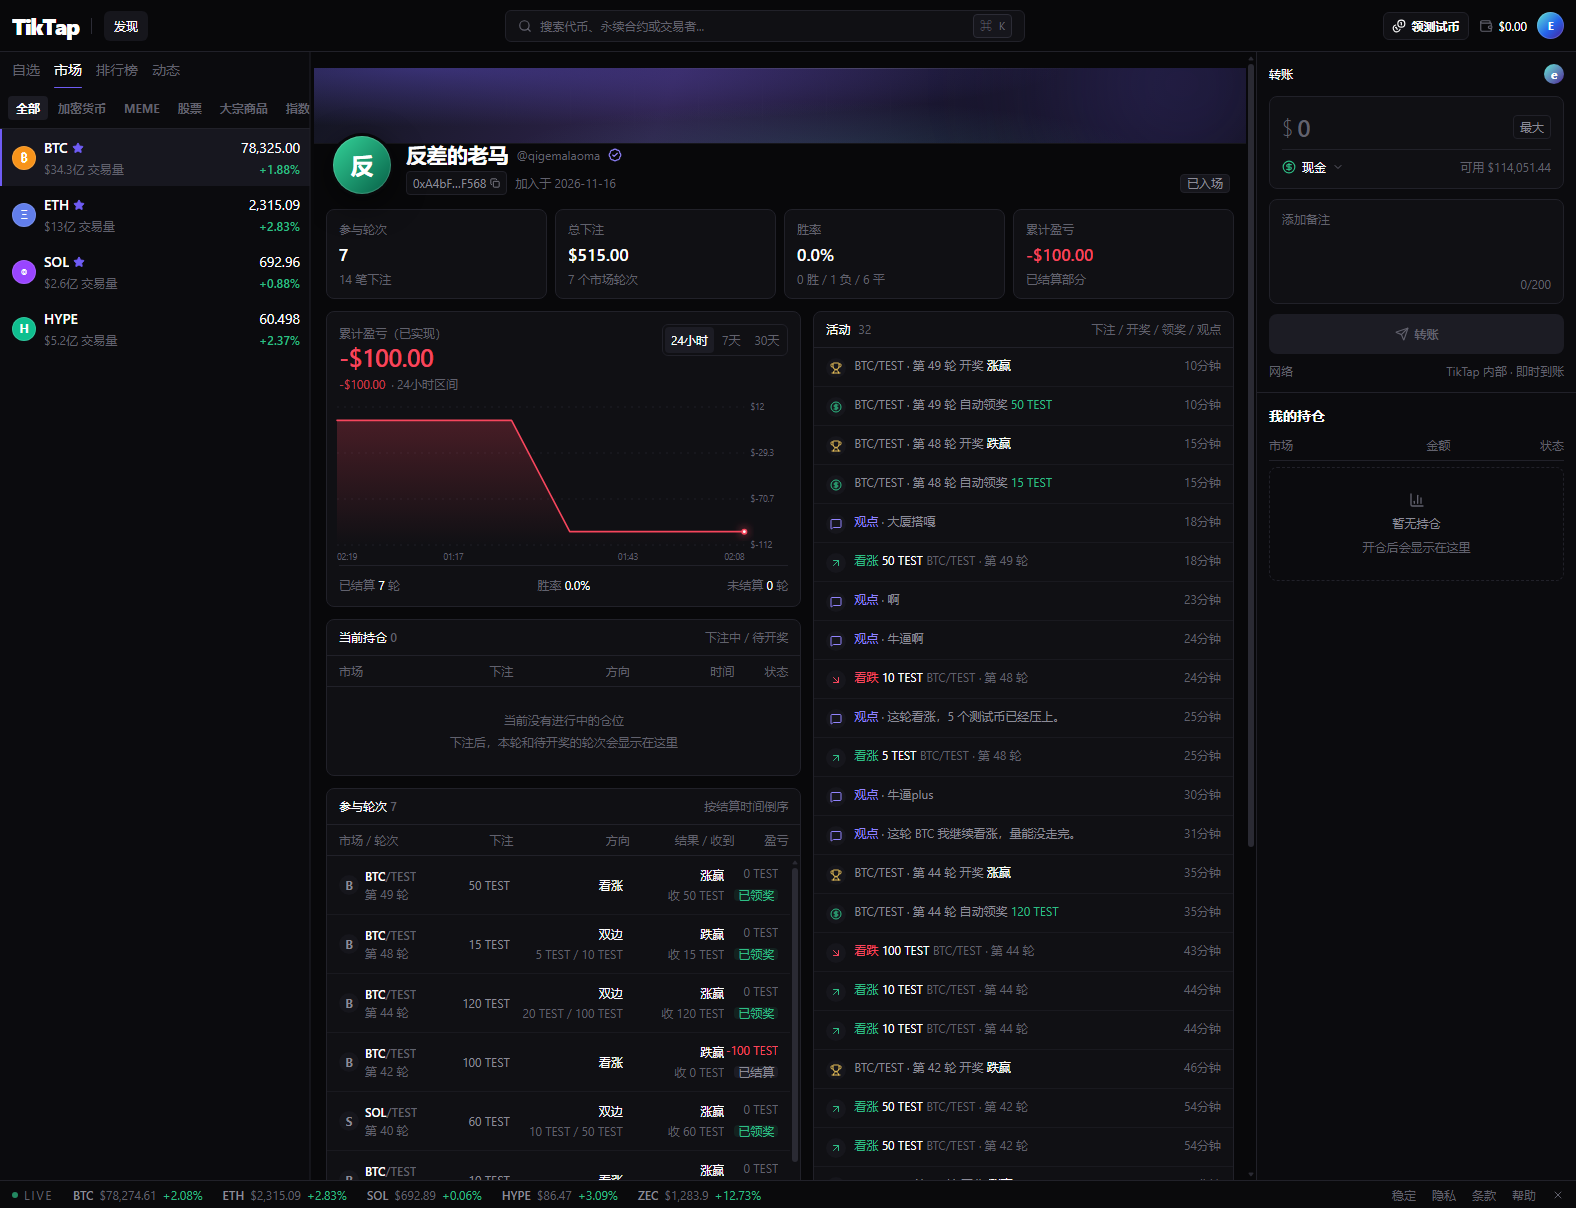
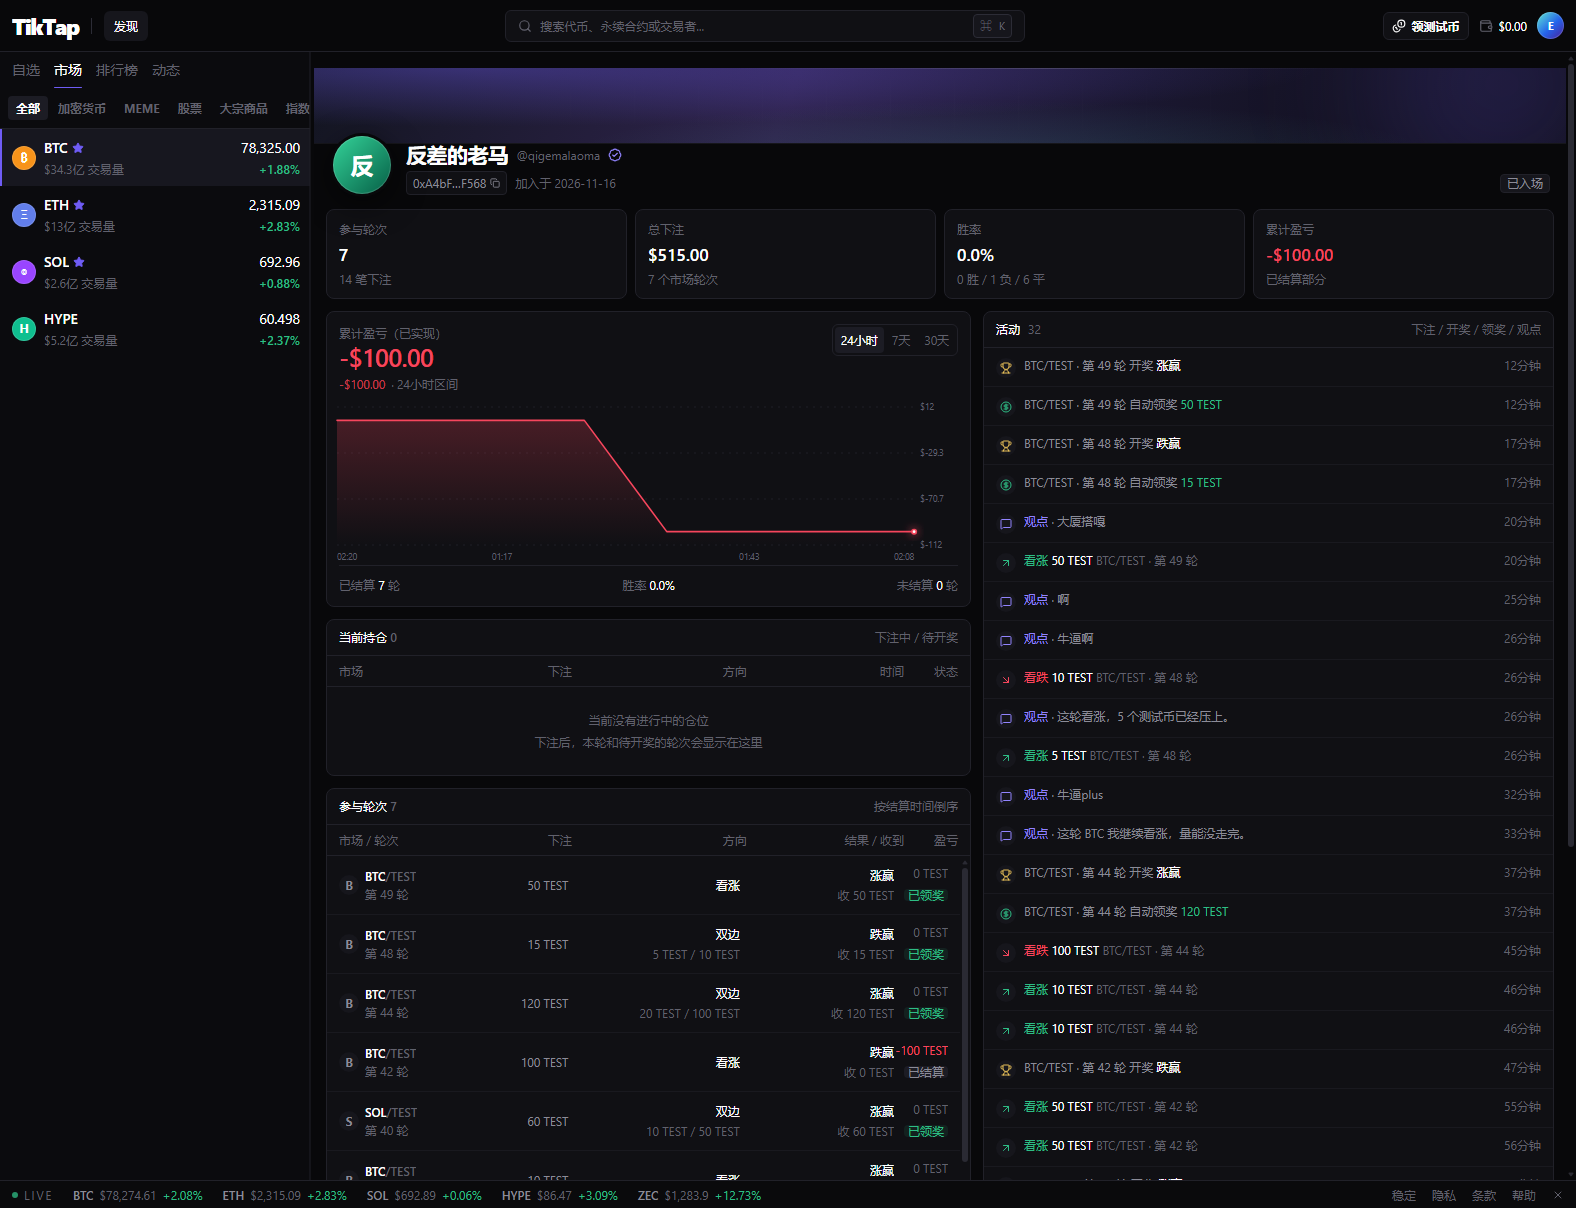
feat(web): 个人主页去掉右侧转账/持仓栏，内容区占满
- 个人主页不再渲染 TransferPanel；发现页仍保留 TradePanel
- 删除已无引用的 TransferPanel 组件
- 实测 1576px 视口下主内容区从 ~960px 扩到 1262px，页面无「转账 / TikTap 内部」文案

diff --git a/apps/web/src/layouts/AppLayout.tsx b/apps/web/src/layouts/AppLayout.tsx
@@ -5,7 +5,6 @@ import { TickerBar } from "@/components/TickerBar";
 import { TokenSidebar } from "@/components/TokenSidebar";
 import { TopBar } from "@/components/TopBar";
 import { TradePanel } from "@/components/TradePanel";
-import { TransferPanel } from "@/components/TransferPanel";
 import { useAuth } from "@/context/AuthContext";
 import { BetTokenProvider } from "@/context/BetTokenContext";
 import { ChainClockProvider } from "@/lib/chainClock";
@@ -63,7 +62,8 @@ export default function AppLayout() {
           <main className="flex min-h-0 min-w-0 flex-1 flex-col">
             <Outlet />
           </main>
-          {isProfile ? <TransferPanel /> : <TradePanel />}
+          {/* 个人主页不需要右侧交易/转账栏，内容区占满 */}
+          {!isProfile && <TradePanel />}
         </div>
         <TickerBar />
       </div>
